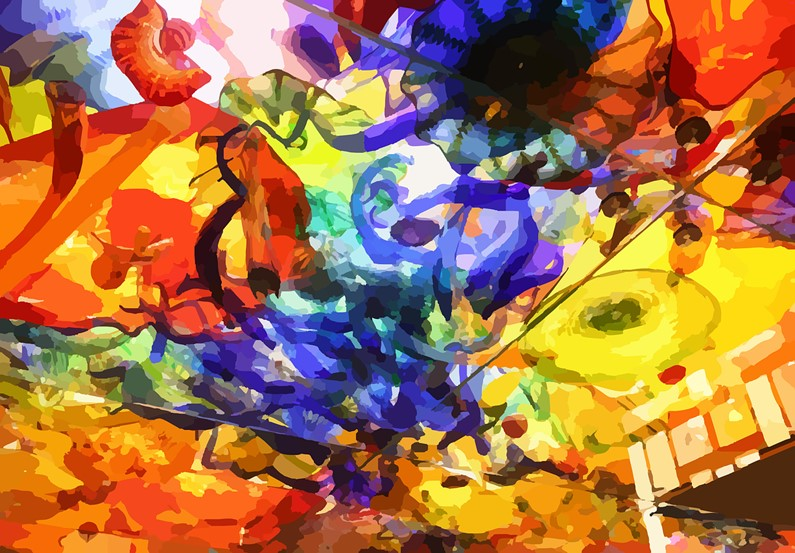
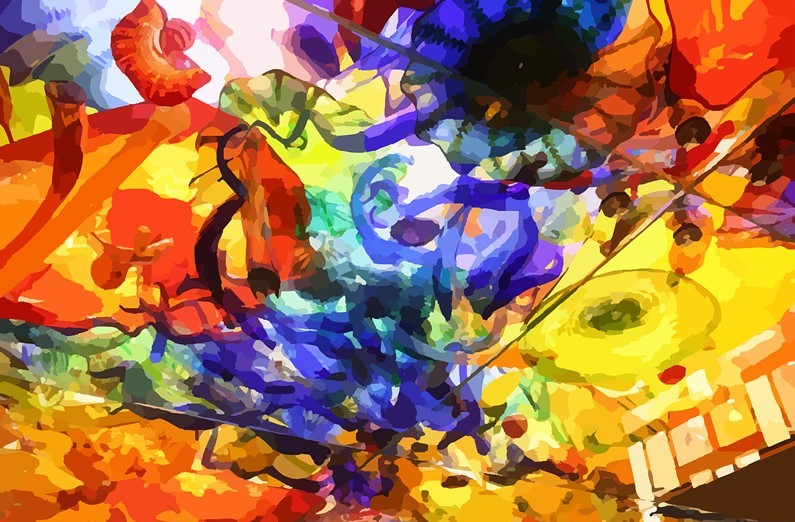
Feedback changes
Image size, contact information and more navigation bullets

diff --git a/index.html b/index.html
@@ -27,6 +27,8 @@
                 <li class="sidebar-nav-item"><a href="#about">Showcase</a></li>
                 <li class="sidebar-nav-item"><a href="#services">Qualities</a></li>
                 <li class="sidebar-nav-item"><a href="#portfolio">Projects</a></li>
+                <li class="sidebar-nav-item"><a href="#areas_of_interest">Areas of Interest</a></li>
+                <li class="sidebar-nav-item"><a href="#contact_information">Contact Information</a></li>
             </ul>
         </nav>
         <!-- Header-->
@@ -121,7 +123,7 @@
             </div>
         </section>        
         <!-- Call to Action-->
-        <section class="content-section bg-primary text-white">
+        <section class="content-section bg-primary text-white", id="areas_of_interest">
             <div class="container px-4 px-lg-5 text-center">
                 <h2 class="mb-4">Areas of Interest</h2>
                 <p class="text-faded mb-0">Take a look at some of the things I love working on.</p>
@@ -148,8 +150,9 @@
                             <p class="text-faded mb-0">Finding new datasets to explore and predict using machine learning techniques. I love the math and theory behind machine learning as well ass the implementation.</p>
                     </div>
                 </div>
+            </div>
         </section>
-        <section class="content-section" id="portfolio">
+        <section class="content-section" id="contact_information">
             <div class="container px-4 px-lg-5">
                 <div class="content-section-heading text-center">
                     <h2 class="text-secondary mb-0">Contact Information</h2>
